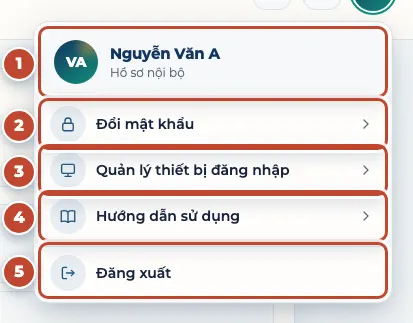
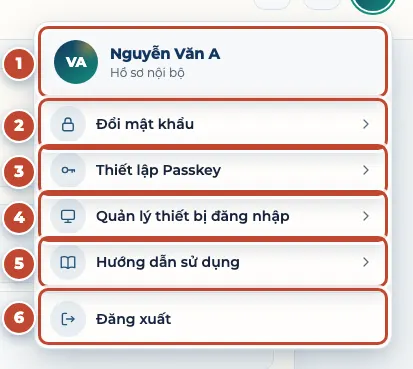
feat(account): Thiết lập Passkey under Đổi mật khẩu in the account menu
In the Android/iOS app it opens the native passkey / vân tay / Face ID
sheet (bridge message quick-sign-in, already handled by the WebView apps).
In a browser, where passkeys cannot be created for this account, it opens
Thiết bị đăng nhập, which now explains where to set one up.
Guide: rewrote Đăng nhập nhanh for the WebView apps, renumbered the account
menu screenshot. Promoted from sandbox 3d2caef.

diff --git a/public/huong-dan-su-dung.html b/public/huong-dan-su-dung.html
@@ -671,7 +671,7 @@ mark { background: #fff3c8; color: inherit; border-radius: 3px; padding: 0 1px; 
     <details class="toc" open>
       <summary>Mục lục</summary>
       <ol class="toc-list">
-<li class="toc-part" data-part="bat-dau-nhanh"><a href="#bat-dau-nhanh"><span class="toc-num">1</span>Bắt đầu nhanh</a><ol><li data-topic="dang-nhap"><a href="#dang-nhap">Đăng nhập lần đầu</a></li><li data-topic="video-huong-dan"><a href="#video-huong-dan">Video hướng dẫn từng bước</a></li><li data-topic="quen-mat-khau"><a href="#quen-mat-khau">Quên mật khẩu</a></li><li data-topic="dang-nhap-nhanh-app"><a href="#dang-nhap-nhanh-app">Đăng nhập nhanh trên app bằng vân tay, Face ID hoặc passkey</a></li><li data-topic="doi-mat-khau-lan-dau"><a href="#doi-mat-khau-lan-dau">Đổi mật khẩu ở lần đăng nhập đầu tiên</a></li><li data-topic="giao-dien-chung"><a href="#giao-dien-chung">Làm quen với màn hình chính</a></li><li data-topic="vai-tro-va-quyen"><a href="#vai-tro-va-quyen">Vai trò, chức vụ và nhóm quyền</a></li><li data-topic="tb-thong-bao"><a href="#tb-thong-bao">Chuông thông báo và trang Thông báo</a></li><li data-topic="tai-khoan-ca-nhan"><a href="#tai-khoan-ca-nhan">Menu tài khoản và hồ sơ cá nhân</a></li><li data-topic="doi-mat-khau"><a href="#doi-mat-khau">Đổi mật khẩu</a></li><li data-topic="thiet-bi-dang-nhap"><a href="#thiet-bi-dang-nhap">Thiết bị đã đăng nhập</a></li></ol></li>
+<li class="toc-part" data-part="bat-dau-nhanh"><a href="#bat-dau-nhanh"><span class="toc-num">1</span>Bắt đầu nhanh</a><ol><li data-topic="dang-nhap"><a href="#dang-nhap">Đăng nhập lần đầu</a></li><li data-topic="video-huong-dan"><a href="#video-huong-dan">Video hướng dẫn từng bước</a></li><li data-topic="quen-mat-khau"><a href="#quen-mat-khau">Quên mật khẩu</a></li><li data-topic="dang-nhap-nhanh-app"><a href="#dang-nhap-nhanh-app">Đăng nhập nhanh bằng passkey, vân tay, Face ID</a></li><li data-topic="doi-mat-khau-lan-dau"><a href="#doi-mat-khau-lan-dau">Đổi mật khẩu ở lần đăng nhập đầu tiên</a></li><li data-topic="giao-dien-chung"><a href="#giao-dien-chung">Làm quen với màn hình chính</a></li><li data-topic="vai-tro-va-quyen"><a href="#vai-tro-va-quyen">Vai trò, chức vụ và nhóm quyền</a></li><li data-topic="tb-thong-bao"><a href="#tb-thong-bao">Chuông thông báo và trang Thông báo</a></li><li data-topic="tai-khoan-ca-nhan"><a href="#tai-khoan-ca-nhan">Menu tài khoản và hồ sơ cá nhân</a></li><li data-topic="doi-mat-khau"><a href="#doi-mat-khau">Đổi mật khẩu</a></li><li data-topic="thiet-bi-dang-nhap"><a href="#thiet-bi-dang-nhap">Thiết bị đã đăng nhập</a></li></ol></li>
 <li class="toc-part" data-part="giao-vien"><a href="#giao-vien"><span class="toc-num">2</span>Tôi là giáo viên</a><ol><li data-topic="ct-xem-lich-ca-nhan"><a href="#ct-xem-lich-ca-nhan">Xem lịch công tác của tôi</a></li><li data-topic="ct-xac-nhan-tham-gia"><a href="#ct-xac-nhan-tham-gia">Xác nhận đã tham gia công tác</a></li><li data-topic="ct-lich-chung-pdf"><a href="#ct-lich-chung-pdf">Xem Lịch công tác chung và tải PDF</a></li><li data-topic="cv-viec-duoc-giao"><a href="#cv-viec-duoc-giao">Xem công việc được giao và nộp bằng chứng hoàn thành</a></li><li data-topic="cv-bi-tra-ve"><a href="#cv-bi-tra-ve">Khi bài nộp bị trả về</a></li><li data-topic="cv-viec-cua-toi"><a href="#cv-viec-cua-toi">Việc của tôi — ghi việc riêng, đặt hạn và nhắc nhở</a></li><li data-topic="td-trao-doi"><a href="#td-trao-doi">Trao đổi — nhắn tin theo công việc, công tác và nhóm</a></li><li data-topic="td-nhom"><a href="#td-nhom">Tạo và quản lý nhóm trao đổi</a></li><li data-topic="dg-ho-so-cua-toi"><a href="#dg-ho-so-cua-toi">Xem hồ sơ đánh giá của tôi và nộp tự đánh giá</a></li><li data-topic="ln-ghi-nhan-loi"><a href="#ln-ghi-nhan-loi">Ghi nhận lỗi</a></li><li data-topic="lh-tong-quan"><a href="#lh-tong-quan">Tổng quan Lớp học</a></li><li data-topic="lh-lop-giang-day"><a href="#lh-lop-giang-day">Ghi Sổ đầu bài (Lớp giảng dạy)</a></li><li data-topic="lh-lich-day"><a href="#lh-lich-day">Xem lịch dạy của tôi</a></li><li data-topic="lh-hoc-ba"><a href="#lh-hoc-ba">Nhập điểm và xem Học bạ</a></li></ol></li>
 <li class="toc-part" data-part="gvcn"><a href="#gvcn"><span class="toc-num">3</span>Tôi là giáo viên chủ nhiệm (GVCN)</a><ol><li data-topic="cn-tong-quan-lop"><a href="#cn-tong-quan-lop">Xem nhanh tình hình lớp chủ nhiệm</a></li><li data-topic="cn-diem-danh-lop"><a href="#cn-diem-danh-lop">Điểm danh của lớp trong ngày — đánh dấu vắng không phép</a></li><li data-topic="cn-so-dau-bai"><a href="#cn-so-dau-bai">Xem Sổ đầu bài của lớp chủ nhiệm</a></li><li data-topic="cn-danh-sach-hoc-sinh"><a href="#cn-danh-sach-hoc-sinh">Danh sách học sinh và hồ sơ từng em</a></li><li data-topic="cn-bao-cao-xuat-file"><a href="#cn-bao-cao-xuat-file">Báo cáo chuyên cần và xuất file Excel / PDF</a></li></ol></li>
 <li class="toc-part" data-part="giam-thi"><a href="#giam-thi"><span class="toc-num">4</span>Tôi là Giám thị</a><ol><li data-topic="dd-diem-danh-man-hinh"><a href="#dd-diem-danh-man-hinh">Điểm danh các lớp trên màn hình</a></li><li data-topic="dd-diem-danh-excel"><a href="#dd-diem-danh-excel">Nhập điểm danh bằng file Excel</a></li><li data-topic="dd-diem-danh-dien-thoai"><a href="#dd-diem-danh-dien-thoai">Điểm danh trên điện thoại</a></li></ol></li>
@@ -723,16 +723,20 @@ mark { background: #fff3c8; color: inherit; border-radius: 3px; padding: 0 1px; 
 <details class="faq"><summary>Mật khẩu cũ của tôi còn dùng được không?</summary><div class="faq-answer"><p>Khi thư đã gửi thành công, mật khẩu cũ không còn dùng được nữa. Hãy đăng nhập bằng mật khẩu tạm trong thư.</p></div></details>
 <details class="faq"><summary>Tôi không còn dùng email đó nữa thì sao?</summary><div class="faq-answer"><p>Liên hệ quản trị viên để kiểm tra tài khoản và đặt lại mật khẩu trực tiếp.</p></div></details>
 </article>
-<article class="topic" id="dang-nhap-nhanh-app" data-keywords="van tay, face id, touch id, passkey, sinh trac hoc, dang nhap nhanh, app">
-<header class="topic-head"><h3><a class="topic-anchor" href="#dang-nhap-nhanh-app">Đăng nhập nhanh trên app bằng vân tay, Face ID hoặc passkey</a></h3><div class="chips"><span class="chip chip-menu">App điện thoại → Cá nhân → Bảo mật</span><span class="chip">Mọi người</span></div></header>
-<p class="lead">Trên app iPhone (từ phiên bản 3.1.0) và Android (từ 2.1.0), thầy cô có thể đăng nhập không cần gõ mật khẩu.</p>
-<p><strong>Cách 1. Vân tay / Face ID (bật một lần trên từng điện thoại)</strong></p>
-<ol class="steps"><li>Đăng nhập app bằng mật khẩu như bình thường.</li><li>Bấm ảnh đại diện → <strong>Cá nhân</strong> → bật <strong>Đăng nhập bằng Face ID</strong> (iPhone) hoặc <strong>Đăng nhập bằng vân tay</strong> (Android), rồi xác nhận bằng khuôn mặt / vân tay.</li><li>Lần sau mở app, ở màn hình đăng nhập bấm nút <strong>Face ID / Touch ID / vân tay</strong> (có ghi email của thầy cô) và xác thực.</li></ol>
-<p><strong>Cách 2. Passkey (đồng bộ qua iCloud / Google)</strong></p>
-<ol class="steps"><li>Đang đăng nhập, vào <strong>Cá nhân</strong> → <strong>Tạo passkey</strong>, xác nhận bằng khuôn mặt / vân tay / mã máy.</li><li>Lần sau ở màn hình đăng nhập bấm <strong>Đăng nhập bằng passkey</strong> <span class="step-ref" aria-label="số 1">1</span>, chọn tài khoản rồi xác thực. Passkey dùng được trên điện thoại khác cùng tài khoản iCloud / Google.</li></ol>
+<article class="topic" id="dang-nhap-nhanh-app" data-keywords="passkey, thiet lap passkey, van tay, face id, touch id, sinh trac hoc, dang nhap nhanh, app, khong can mat khau">
+<header class="topic-head"><h3><a class="topic-anchor" href="#dang-nhap-nhanh-app">Đăng nhập nhanh bằng passkey, vân tay, Face ID</a></h3><div class="chips"><span class="chip chip-menu">App điện thoại → Ảnh đại diện → Thiết lập Passkey</span><span class="chip">Mọi người</span></div></header>
+<p class="lead">Trên app <strong>CRM Lê Văn Tám</strong> (Android 3.0.3, iPhone 4.0.3 trở lên), thầy cô bật một lần là các lần sau đăng nhập bằng khuôn mặt, vân tay hoặc mã mở khóa máy, không phải gõ mật khẩu.</p>
+<p><strong>Thiết lập (làm một lần trên mỗi điện thoại)</strong></p>
+<ol class="steps"><li>Mở app, đăng nhập bằng email và mật khẩu như bình thường.</li><li>Bấm <strong>ảnh đại diện</strong> góc trên bên phải → <strong>Thiết lập Passkey</strong> (ngay dưới <strong>Đổi mật khẩu</strong>).</li><li>Màn hình <strong>Đăng nhập nhanh</strong> hiện ra. Bấm <strong>Tạo passkey</strong> rồi xác nhận bằng khuôn mặt / vân tay / mã máy. Passkey được lưu trong iCloud (iPhone) hoặc Google (Android), nên dùng được cả trên điện thoại khác đăng nhập cùng tài khoản iCloud / Google.</li><li>Cũng trên màn hình này, có thể bật thêm <strong>Đăng nhập bằng Face ID</strong> (iPhone) hoặc <strong>Đăng nhập bằng vân tay</strong> (Android). Cách này chỉ có tác dụng trên đúng điện thoại đó.</li><li>Thấy thông báo <strong>Đã tạo passkey</strong> / <strong>Đã bật</strong> là xong. Bấm <strong>Đóng</strong>.</li></ol>
+<p><strong>Đăng nhập lần sau</strong></p>
+<p>Mở app, ở màn hình đăng nhập bấm <strong>Đăng nhập bằng passkey</strong> <span class="step-ref" aria-label="số 1">1</span> (hoặc nút <strong>Face ID / vân tay</strong> có ghi email của thầy cô), rồi xác thực bằng khuôn mặt / vân tay.</p>
 <figure class="figure" id="hinh-7"><button type="button" class="figure-zoom" aria-label="Phóng to hình 7"><img src="huong-dan/app-dang-nhap-ios.webp" width="603" height="900" alt="Hình 7. Màn hình đăng nhập trên iPhone: 1 Đăng nhập bằng passkey" loading="lazy" decoding="async"></button><figcaption><b>Hình 7.</b> Màn hình đăng nhập trên iPhone: 1 Đăng nhập bằng passkey</figcaption></figure>
-<aside class="callout callout-note"><p class="callout-title"><svg viewBox="0 0 24 24" width="18" height="18" fill="none" stroke="currentColor" stroke-width="2" stroke-linecap="round" stroke-linejoin="round" aria-hidden="true"><circle cx="12" cy="12" r="9"/><path d="M12 11v6M12 7.5h.01"/></svg><span>Ghi chú</span></p><p>Mật khẩu không được lưu trên điện thoại: máy chỉ giữ một khóa bảo mật mở bằng vân tay / khuôn mặt. Khi quản trị viên đặt lại mật khẩu, khi thầy cô dùng <strong>Quên mật khẩu</strong>, hoặc khi tài khoản bị khóa / ngừng hoạt động, mọi vân tay / Face ID và passkey của tài khoản bị gỡ: đăng nhập bằng mật khẩu rồi bật lại.</p></aside>
+<aside class="callout callout-note"><p class="callout-title"><svg viewBox="0 0 24 24" width="18" height="18" fill="none" stroke="currentColor" stroke-width="2" stroke-linecap="round" stroke-linejoin="round" aria-hidden="true"><circle cx="12" cy="12" r="9"/><path d="M12 11v6M12 7.5h.01"/></svg><span>Mở bằng trình duyệt web?</span></p><p>Passkey chỉ thiết lập được trong app điện thoại. Trên trình duyệt (máy tính hoặc điện thoại), bấm <strong>Thiết lập Passkey</strong> sẽ mở trang <strong>Quản lý thiết bị đăng nhập</strong>, nơi xem và gỡ các passkey, vân tay, Face ID đã bật. Đăng nhập web vẫn dùng email và mật khẩu.</p></aside>
+<aside class="callout callout-note"><p class="callout-title"><svg viewBox="0 0 24 24" width="18" height="18" fill="none" stroke="currentColor" stroke-width="2" stroke-linecap="round" stroke-linejoin="round" aria-hidden="true"><circle cx="12" cy="12" r="9"/><path d="M12 11v6M12 7.5h.01"/></svg><span>Ghi chú</span></p><p>Mật khẩu không được lưu trên điện thoại: máy chỉ giữ một khóa bảo mật mở bằng vân tay / khuôn mặt. Khi quản trị viên đặt lại mật khẩu, khi thầy cô dùng <strong>Quên mật khẩu</strong>, hoặc khi tài khoản bị khóa / ngừng hoạt động, mọi passkey, vân tay, Face ID của tài khoản bị gỡ: đăng nhập bằng mật khẩu rồi thiết lập lại.</p></aside>
 <aside class="callout callout-warn"><p class="callout-title"><svg viewBox="0 0 24 24" width="18" height="18" fill="none" stroke="currentColor" stroke-width="2" stroke-linecap="round" stroke-linejoin="round" aria-hidden="true"><path d="M12 3 2 20h20L12 3Z"/><path d="M12 10v4M12 17h.01"/></svg><span>Mất điện thoại?</span></p><p>Vào web → ảnh đại diện → <strong>Quản lý thiết bị đăng nhập</strong>, mục <strong>Vân tay, Face ID và passkey</strong>, bấm <strong>Gỡ</strong> ở máy đó, đồng thời <strong>Thu hồi</strong> phiên đăng nhập của máy.</p></aside>
+<h4>Câu hỏi thường gặp</h4>
+<details class="faq"><summary>Không thấy dòng Thiết lập Passkey trong menu?</summary><div class="faq-answer"><p>Thầy cô cập nhật app lên bản mới nhất trên Google Play / App Store, rồi mở lại app.</p></div></details>
+<details class="faq"><summary>Bấm Tạo passkey thì máy báo lỗi?</summary><div class="faq-answer"><p>Điện thoại cần đã đặt khóa màn hình (mã PIN, vân tay hoặc khuôn mặt). Với Android, máy cần đăng nhập tài khoản Google; với iPhone, cần bật <strong>Mật khẩu &amp; Chuỗi khóa iCloud</strong> trong Cài đặt.</p></div></details>
 </article>
 <article class="topic" id="doi-mat-khau-lan-dau" data-keywords="mat khau tam, doi mat khau, lan dau, bat buoc">
 <header class="topic-head"><h3><a class="topic-anchor" href="#doi-mat-khau-lan-dau">Đổi mật khẩu ở lần đăng nhập đầu tiên</a></h3><div class="chips"><span class="chip chip-menu">Màn hình đăng nhập</span><span class="chip">Mọi người</span></div></header>
@@ -790,9 +794,9 @@ mark { background: #fff3c8; color: inherit; border-radius: 3px; padding: 0 1px; 
 </article>
 <article class="topic" id="tai-khoan-ca-nhan" data-keywords="ho so, avatar, anh dai dien, dang xuat, huong dan">
 <header class="topic-head"><h3><a class="topic-anchor" href="#tai-khoan-ca-nhan">Menu tài khoản và hồ sơ cá nhân</a></h3><div class="chips"><span class="chip chip-menu">Ảnh đại diện (góc trên phải)</span><span class="chip">Mọi người</span></div></header>
-<p class="lead">Mở hồ sơ, đổi ảnh đại diện, đổi mật khẩu, xem thiết bị, mở hướng dẫn và đăng xuất.</p>
-<ol class="steps"><li>Bấm vào <strong>ảnh đại diện</strong> (hoặc chữ viết tắt tên) ở góc trên bên phải.</li><li>Chọn tên của mình <span class="step-ref" aria-label="số 1">1</span> để mở <strong>Hồ sơ nội bộ</strong>.</li><li><strong>Đổi mật khẩu</strong> <span class="step-ref" aria-label="số 2">2</span> — xem <a href="#doi-mat-khau">Đổi mật khẩu</a>.</li><li><strong>Quản lý thiết bị đăng nhập</strong> <span class="step-ref" aria-label="số 3">3</span> — xem <a href="#thiet-bi-dang-nhap">Thiết bị đã đăng nhập</a>.</li><li><strong>Hướng dẫn sử dụng</strong> <span class="step-ref" aria-label="số 4">4</span> mở cẩm nang này trong tab mới.</li><li><strong>Đăng xuất</strong> <span class="step-ref" aria-label="số 5">5</span> khi dùng xong, nhất là trên máy tính dùng chung.</li></ol>
-<figure class="figure" id="hinh-19"><button type="button" class="figure-zoom" aria-label="Phóng to hình 19"><img src="huong-dan/menu-tai-khoan.webp" width="413" height="323" alt="Hình 19. Menu tài khoản: 1 Hồ sơ, 2 Đổi mật khẩu, 3 Thiết bị đăng nhập, 4 Hướng dẫn sử dụng, 5 Đăng xuất" loading="lazy" decoding="async"></button><figcaption><b>Hình 19.</b> Menu tài khoản: 1 Hồ sơ, 2 Đổi mật khẩu, 3 Thiết bị đăng nhập, 4 Hướng dẫn sử dụng, 5 Đăng xuất</figcaption></figure>
+<p class="lead">Mở hồ sơ, đổi ảnh đại diện, đổi mật khẩu, thiết lập passkey, xem thiết bị, mở hướng dẫn và đăng xuất.</p>
+<ol class="steps"><li>Bấm vào <strong>ảnh đại diện</strong> (hoặc chữ viết tắt tên) ở góc trên bên phải.</li><li>Chọn tên của mình <span class="step-ref" aria-label="số 1">1</span> để mở <strong>Hồ sơ nội bộ</strong>.</li><li><strong>Đổi mật khẩu</strong> <span class="step-ref" aria-label="số 2">2</span> — xem <a href="#doi-mat-khau">Đổi mật khẩu</a>.</li><li><strong>Thiết lập Passkey</strong> <span class="step-ref" aria-label="số 3">3</span> — bật đăng nhập không cần mật khẩu trên app điện thoại, xem <a href="#dang-nhap-nhanh-app">Đăng nhập nhanh bằng passkey, vân tay, Face ID</a>.</li><li><strong>Quản lý thiết bị đăng nhập</strong> <span class="step-ref" aria-label="số 4">4</span> — xem <a href="#thiet-bi-dang-nhap">Thiết bị đã đăng nhập</a>.</li><li><strong>Hướng dẫn sử dụng</strong> <span class="step-ref" aria-label="số 5">5</span> mở cẩm nang này trong tab mới.</li><li><strong>Đăng xuất</strong> <span class="step-ref" aria-label="số 6">6</span> khi dùng xong, nhất là trên máy tính dùng chung.</li></ol>
+<figure class="figure" id="hinh-19"><button type="button" class="figure-zoom" aria-label="Phóng to hình 19"><img src="huong-dan/menu-tai-khoan.webp" width="413" height="369" alt="Hình 19. Menu tài khoản: 1 Hồ sơ, 2 Đổi mật khẩu, 3 Thiết lập Passkey, 4 Thiết bị đăng nhập, 5 Hướng dẫn sử dụng, 6 Đăng xuất" loading="lazy" decoding="async"></button><figcaption><b>Hình 19.</b> Menu tài khoản: 1 Hồ sơ, 2 Đổi mật khẩu, 3 Thiết lập Passkey, 4 Thiết bị đăng nhập, 5 Hướng dẫn sử dụng, 6 Đăng xuất</figcaption></figure>
 <h5>Đổi ảnh đại diện</h5>
 <p>Trong <strong>Hồ sơ nội bộ</strong>, bấm <strong>Đổi ảnh đại diện</strong> <span class="step-ref" aria-label="số 1">1</span>, chọn ảnh, kéo/phóng để căn khung rồi lưu. Hồ sơ còn cho biết email, vai trò, tổ chuyên môn, chức vụ và nhóm quyền của thầy cô.</p>
 <figure class="figure" id="hinh-20"><button type="button" class="figure-zoom" aria-label="Phóng to hình 20"><img src="huong-dan/ho-so.webp" width="792" height="767" alt="Hình 20. Hồ sơ nội bộ: 1 nút Đổi ảnh đại diện" loading="lazy" decoding="async"></button><figcaption><b>Hình 20.</b> Hồ sơ nội bộ: 1 nút Đổi ảnh đại diện</figcaption></figure>
@@ -803,7 +807,7 @@ mark { background: #fff3c8; color: inherit; border-radius: 3px; padding: 0 1px; 
 <header class="topic-head"><h3><a class="topic-anchor" href="#doi-mat-khau">Đổi mật khẩu</a></h3><div class="chips"><span class="chip chip-menu">Ảnh đại diện → Đổi mật khẩu</span><span class="chip">Mọi người</span></div></header>
 <p class="lead">Tự đổi mật khẩu khi đang đăng nhập.</p>
 <ol class="steps"><li>Bấm ảnh đại diện ở góc trên bên phải → <strong>Đổi mật khẩu</strong> (số 2 trong hình).</li></ol>
-<figure class="figure" id="hinh-21"><button type="button" class="figure-zoom" aria-label="Phóng to hình 21"><img src="huong-dan/menu-tai-khoan.webp" width="413" height="323" alt="Hình 21. Menu tài khoản: Đổi mật khẩu ở số 2" loading="lazy" decoding="async"></button><figcaption><b>Hình 21.</b> Menu tài khoản: Đổi mật khẩu ở số 2</figcaption></figure>
+<figure class="figure" id="hinh-21"><button type="button" class="figure-zoom" aria-label="Phóng to hình 21"><img src="huong-dan/menu-tai-khoan.webp" width="413" height="369" alt="Hình 21. Menu tài khoản: Đổi mật khẩu ở số 2" loading="lazy" decoding="async"></button><figcaption><b>Hình 21.</b> Menu tài khoản: Đổi mật khẩu ở số 2</figcaption></figure>
 <ol class="steps" start="2" style="counter-reset: step 1"><li>Nhập <strong>mật khẩu hiện tại</strong> <span class="step-ref" aria-label="số 1">1</span>.</li><li>Nhập <strong>mật khẩu mới</strong>, ít nhất 8 ký tự <span class="step-ref" aria-label="số 2">2</span>.</li><li>Nhập lại mật khẩu mới để xác nhận <span class="step-ref" aria-label="số 3">3</span>.</li><li>Bấm <strong>Đổi mật khẩu</strong> <span class="step-ref" aria-label="số 4">4</span>.</li></ol>
 <figure class="figure" id="hinh-22"><button type="button" class="figure-zoom" aria-label="Phóng to hình 22"><img src="huong-dan/doi-mat-khau.webp" width="528" height="519" alt="Hình 22. Trang Đổi mật khẩu: 1 mật khẩu hiện tại, 2 mật khẩu mới, 3 xác nhận, 4 nút Đổi mật khẩu" loading="lazy" decoding="async"></button><figcaption><b>Hình 22.</b> Trang Đổi mật khẩu: 1 mật khẩu hiện tại, 2 mật khẩu mới, 3 xác nhận, 4 nút Đổi mật khẩu</figcaption></figure>
 <aside class="callout callout-tip"><p class="callout-title"><svg viewBox="0 0 24 24" width="18" height="18" fill="none" stroke="currentColor" stroke-width="2" stroke-linecap="round" stroke-linejoin="round" aria-hidden="true"><path d="M9 18h6M10 21h4M12 3a6 6 0 0 0-3.5 10.9c.6.5 1 1.2 1 2V16h5v-.1c0-.8.4-1.5 1-2A6 6 0 0 0 12 3Z"/></svg><span>Mẹo</span></p><p>Quên mật khẩu hiện tại? Đăng xuất rồi dùng <a href="#quen-mat-khau">Quên mật khẩu</a> ở màn hình đăng nhập.</p></aside>
@@ -811,8 +815,8 @@ mark { background: #fff3c8; color: inherit; border-radius: 3px; padding: 0 1px; 
 <article class="topic" id="thiet-bi-dang-nhap" data-keywords="thiet bi, phien, dang xuat tu xa, mat dien thoai, thu hoi">
 <header class="topic-head"><h3><a class="topic-anchor" href="#thiet-bi-dang-nhap">Thiết bị đã đăng nhập</a></h3><div class="chips"><span class="chip chip-menu">Ảnh đại diện → Quản lý thiết bị đăng nhập</span><span class="chip">Mọi người</span></div></header>
 <p class="lead">Xem tài khoản đang đăng nhập ở những máy nào và đăng xuất từ xa máy không dùng nữa.</p>
-<ol class="steps"><li>Bấm ảnh đại diện → <strong>Quản lý thiết bị đăng nhập</strong> (số 3 trong hình).</li></ol>
-<figure class="figure" id="hinh-23"><button type="button" class="figure-zoom" aria-label="Phóng to hình 23"><img src="huong-dan/menu-tai-khoan.webp" width="413" height="323" alt="Hình 23. Menu tài khoản: Quản lý thiết bị đăng nhập ở số 3" loading="lazy" decoding="async"></button><figcaption><b>Hình 23.</b> Menu tài khoản: Quản lý thiết bị đăng nhập ở số 3</figcaption></figure>
+<ol class="steps"><li>Bấm ảnh đại diện → <strong>Quản lý thiết bị đăng nhập</strong> (số 4 trong hình).</li></ol>
+<figure class="figure" id="hinh-23"><button type="button" class="figure-zoom" aria-label="Phóng to hình 23"><img src="huong-dan/menu-tai-khoan.webp" width="413" height="369" alt="Hình 23. Menu tài khoản: Quản lý thiết bị đăng nhập ở số 4" loading="lazy" decoding="async"></button><figcaption><b>Hình 23.</b> Menu tài khoản: Quản lý thiết bị đăng nhập ở số 4</figcaption></figure>
 <ol class="steps" start="2" style="counter-reset: step 1"><li>Mục <strong>Thiết bị này</strong> <span class="step-ref" aria-label="số 1">1</span> là máy thầy cô đang dùng.</li><li>Bấm <strong>Đăng xuất tất cả phiên khác</strong> <span class="step-ref" aria-label="số 2">2</span> để thoát tài khoản trên mọi máy còn lại.</li><li>Hoặc bấm <strong>Thu hồi</strong> <span class="step-ref" aria-label="số 3">3</span> để chỉ đăng xuất một máy.</li><li>Mục <strong>Vân tay, Face ID và passkey</strong> liệt kê các điện thoại đã bật đăng nhập nhanh; bấm <strong>Gỡ</strong> để tắt ở máy không dùng nữa — xem <a href="#dang-nhap-nhanh-app">Đăng nhập nhanh trên app</a>.</li></ol>
 <figure class="figure" id="hinh-24"><button type="button" class="figure-zoom" aria-label="Phóng to hình 24"><img src="huong-dan/thiet-bi.webp" width="808" height="491" alt="Hình 24. Thiết bị đã đăng nhập: 1 thiết bị này, 2 Đăng xuất tất cả phiên khác, 3 Thu hồi một phiên" loading="lazy" decoding="async"></button><figcaption><b>Hình 24.</b> Thiết bị đã đăng nhập: 1 thiết bị này, 2 Đăng xuất tất cả phiên khác, 3 Thu hồi một phiên</figcaption></figure>
 <aside class="callout callout-warn"><p class="callout-title"><svg viewBox="0 0 24 24" width="18" height="18" fill="none" stroke="currentColor" stroke-width="2" stroke-linecap="round" stroke-linejoin="round" aria-hidden="true"><path d="M12 3 2 20h20L12 3Z"/><path d="M12 10v4M12 17h.01"/></svg><span>Lưu ý</span></p><p>Mất điện thoại hoặc lỡ đăng nhập trên máy tính dùng chung? Hãy vào đây <strong>Thu hồi</strong> ngay, sau đó <a href="#doi-mat-khau">đổi mật khẩu</a>. Máy bị thu hồi cũng ngừng nhận thông báo.</p></aside>
@@ -1534,7 +1538,7 @@ mark { background: #fff3c8; color: inherit; border-radius: 3px; padding: 0 1px; 
 <ol class="steps"><li>Tìm menu ở cột trái, hoặc biểu tượng ở góc trên bên phải (Trao đổi, chuông, ảnh đại diện).</li><li>Bấm liên kết trong bảng để đọc hướng dẫn.</li></ol>
 <figure class="figure" id="hinh-144"><button type="button" class="figure-zoom" aria-label="Phóng to hình 144"><img src="huong-dan/tb-chuong.webp" width="510" height="641" alt="Hình 144. Chuông thông báo ở góc trên bên phải" loading="lazy" decoding="async"></button><figcaption><b>Hình 144.</b> Chuông thông báo ở góc trên bên phải</figcaption></figure>
 <figure class="figure" id="hinh-145"><button type="button" class="figure-zoom" aria-label="Phóng to hình 145"><img src="huong-dan/td-trao-doi.webp" width="1028" height="800" alt="Hình 145. Trao đổi: nhắn tin theo công việc, công tác và nhóm" loading="lazy" decoding="async"></button><figcaption><b>Hình 145.</b> Trao đổi: nhắn tin theo công việc, công tác và nhóm</figcaption></figure>
-<figure class="figure" id="hinh-146"><button type="button" class="figure-zoom" aria-label="Phóng to hình 146"><img src="huong-dan/menu-tai-khoan.webp" width="413" height="323" alt="Hình 146. Bấm ảnh đại diện: hồ sơ, đổi mật khẩu, thiết bị, hướng dẫn, đăng xuất" loading="lazy" decoding="async"></button><figcaption><b>Hình 146.</b> Bấm ảnh đại diện: hồ sơ, đổi mật khẩu, thiết bị, hướng dẫn, đăng xuất</figcaption></figure>
+<figure class="figure" id="hinh-146"><button type="button" class="figure-zoom" aria-label="Phóng to hình 146"><img src="huong-dan/menu-tai-khoan.webp" width="413" height="369" alt="Hình 146. Bấm ảnh đại diện: hồ sơ, đổi mật khẩu, thiết bị, hướng dẫn, đăng xuất" loading="lazy" decoding="async"></button><figcaption><b>Hình 146.</b> Bấm ảnh đại diện: hồ sơ, đổi mật khẩu, thiết bị, hướng dẫn, đăng xuất</figcaption></figure>
 <div class="table-wrap"><table><thead><tr><th scope="col">Menu</th><th scope="col">Dùng để</th><th scope="col">Hướng dẫn</th></tr></thead><tbody><tr><td>Thông báo (chuông)</td><td>Lịch, việc sắp đến hạn, tin nhắn nhóm</td><td><a href="#tb-thong-bao">Thông báo</a></td></tr><tr><td>Trao đổi (tin nhắn)</td><td>Nhắn tin theo công việc, công tác, nhóm</td><td><a href="#td-trao-doi">Trao đổi</a>, <a href="#td-nhom">Nhóm</a></td></tr><tr><td>Báo cáo</td><td>Công việc, Bán trú</td><td><a href="#menu-bao-cao">Báo cáo</a></td></tr><tr><td>Bán trú</td><td>Kỳ bán trú, giáo viên tham gia</td><td><a href="#bt-ban-tru">Bán trú</a></td></tr><tr><td>Đánh giá nhân sự</td><td>Hồ sơ lỗi, công việc, kỳ đánh giá; BGH nhận xét</td><td><a href="#menu-danh-gia-nhan-su">Đánh giá nhân sự</a></td></tr><tr><td>Ghi nhận lỗi</td><td>Lỗi của tôi, lỗi do tôi ghi nhận</td><td><a href="#ln-ghi-nhan-loi">Ghi nhận lỗi</a></td></tr><tr><td>Ảnh đại diện</td><td>Hồ sơ, đổi mật khẩu, thiết bị, hướng dẫn, đăng xuất</td><td><a href="#tai-khoan-ca-nhan">Tài khoản</a></td></tr><tr><td>Thiết lập tối cao</td><td>Chỉ Administrator</td><td><a href="#menu-thiet-lap">Thiết lập tối cao</a></td></tr></tbody></table></div>
 <aside class="callout callout-tip"><p class="callout-title"><svg viewBox="0 0 24 24" width="18" height="18" fill="none" stroke="currentColor" stroke-width="2" stroke-linecap="round" stroke-linejoin="round" aria-hidden="true"><path d="M9 18h6M10 21h4M12 3a6 6 0 0 0-3.5 10.9c.6.5 1 1.2 1 2V16h5v-.1c0-.8.4-1.5 1-2A6 6 0 0 0 12 3Z"/></svg><span>Nút ? cạnh tên trang</span></p><p>Ở mọi trang, nút tròn <strong>?</strong> cạnh tên trang mở đúng phần hướng dẫn của menu đó ngay bên cạnh màn hình làm việc — xem <a href="#giao-dien-chung">Làm quen với màn hình chính</a>.</p></aside>
 </article>
@@ -1542,7 +1546,7 @@ mark { background: #fff3c8; color: inherit; border-radius: 3px; padding: 0 1px; 
 <header class="topic-head"><h3><a class="topic-anchor" href="#khi-khong-thay">Khi không thấy menu, nút hoặc dữ liệu</a></h3><div class="chips"><span class="chip chip-menu">Toàn bộ ứng dụng</span><span class="chip">Mọi người</span></div></header>
 <p class="lead">Các bước tự kiểm tra trước khi nhờ quản trị viên.</p>
 <ol class="steps"><li>Kiểm tra đang đăng nhập <strong>đúng tài khoản</strong> (bấm ảnh đại diện để xem tên).</li></ol>
-<figure class="figure" id="hinh-147"><button type="button" class="figure-zoom" aria-label="Phóng to hình 147"><img src="huong-dan/menu-tai-khoan.webp" width="413" height="323" alt="Hình 147. Bấm ảnh đại diện ở góc trên bên phải: tên tài khoản đang đăng nhập nằm trên cùng" loading="lazy" decoding="async"></button><figcaption><b>Hình 147.</b> Bấm ảnh đại diện ở góc trên bên phải: tên tài khoản đang đăng nhập nằm trên cùng</figcaption></figure>
+<figure class="figure" id="hinh-147"><button type="button" class="figure-zoom" aria-label="Phóng to hình 147"><img src="huong-dan/menu-tai-khoan.webp" width="413" height="369" alt="Hình 147. Bấm ảnh đại diện ở góc trên bên phải: tên tài khoản đang đăng nhập nằm trên cùng" loading="lazy" decoding="async"></button><figcaption><b>Hình 147.</b> Bấm ảnh đại diện ở góc trên bên phải: tên tài khoản đang đăng nhập nằm trên cùng</figcaption></figure>
 <ol class="steps" start="2" style="counter-reset: step 1"><li><strong>Tải lại trang</strong> (phím F5, hoặc kéo trang xuống trên điện thoại).</li><li>Kiểm tra đã chọn đúng <strong>kỳ, ngày, năm học</strong> hoặc đúng tab (ví dụ tab <strong>Quá hạn</strong> thay vì <strong>Việc cần làm</strong>).</li><li>Nhớ rằng nhiều nút chỉ hiện <strong>đúng lúc</strong> (xác nhận tham gia chỉ trong giờ công tác; việc Văn thư giao chỉ hiện sau khi Ban Giám hiệu duyệt), <strong>đúng người</strong> (người giao mới duyệt được) hoặc <strong>đúng chức vụ</strong> (giáo viên 1 sao không có <strong>+ Tạo công việc</strong>).</li><li>Vẫn không được: chụp màn hình, ghi rõ đang làm gì, gửi cho quản trị viên của trường.</li></ol>
 <aside class="callout callout-tip"><p class="callout-title"><svg viewBox="0 0 24 24" width="18" height="18" fill="none" stroke="currentColor" stroke-width="2" stroke-linecap="round" stroke-linejoin="round" aria-hidden="true"><path d="M9 18h6M10 21h4M12 3a6 6 0 0 0-3.5 10.9c.6.5 1 1.2 1 2V16h5v-.1c0-.8.4-1.5 1-2A6 6 0 0 0 12 3Z"/></svg><span>Mẹo</span></p><p>Xem <a href="#vai-tro-va-quyen">Vai trò, chức vụ và nhóm quyền</a> để hiểu vì sao mỗi người thấy menu khác nhau.</p></aside>
 <h4>Câu hỏi thường gặp</h4>

diff --git a/src/profile/AccountMenu.jsx b/src/profile/AccountMenu.jsx
@@ -1,5 +1,6 @@
 import React, { useEffect, useRef, useState } from 'react';
 import { useOwnAvatarContext } from './useOwnAvatar.jsx';
+import { postToApp } from '../lib/appBridge';
 import './accountMenu.css';
 
 function MenuGlyph({ children }) {
@@ -15,6 +16,17 @@ function PasswordIcon() {
     <MenuGlyph>
       <rect x="5" y="11" width="14" height="10" rx="2" />
       <path d="M8 11V8a4 4 0 0 1 8 0v3" />
+    </MenuGlyph>
+  );
+}
+
+function PasskeyIcon() {
+  return (
+    <MenuGlyph>
+      <circle cx="8" cy="12" r="3.5" />
+      <path d="M11.5 12h9" />
+      <path d="M17.5 12v3" />
+      <path d="M20.5 12v2" />
     </MenuGlyph>
   );
 }
@@ -123,6 +135,21 @@ export default function AccountMenu({ onChoose, onSignOut }) {
             <button type="button" className="account-menu-row" role="menuitem" onClick={() => go('change-password')}>
               <span className="account-menu-chip" aria-hidden="true"><PasswordIcon /></span>
               <span>Đổi mật khẩu</span>
+              <ChevronIcon />
+            </button>
+            {/* In the app: the native passkey / vân tay / Face ID sheet. In a browser passkeys cannot be
+                created (they belong to the phone app), so open Thiết bị đăng nhập, which explains where. */}
+            <button
+              type="button"
+              className="account-menu-row"
+              role="menuitem"
+              onClick={() => {
+                if (postToApp({ type: 'quick-sign-in' })) setOpen(false);
+                else go('devices');
+              }}
+            >
+              <span className="account-menu-chip" aria-hidden="true"><PasskeyIcon /></span>
+              <span>Thiết lập Passkey</span>
               <ChevronIcon />
             </button>
             <button type="button" className="account-menu-row" role="menuitem" onClick={() => go('devices')}>

diff --git a/src/profile/DevicesPanel.jsx b/src/profile/DevicesPanel.jsx
@@ -176,7 +176,12 @@ function SignInKeysSection({ now }) {
         <button type="button" className="primary-button devices-quick-sign-in" onClick={() => postToApp({ type: 'quick-sign-in' })}>
           Cài đặt đăng nhập nhanh trên điện thoại này
         </button>
-      ) : null}
+      ) : (
+        <p className="devices-hint">
+          Passkey, vân tay và Face ID được thiết lập trong app CRM Lê Văn Tám trên điện thoại: mở app, bấm ảnh đại diện
+          góc trên → <strong>Thiết lập Passkey</strong>. Trên trình duyệt web không tạo được passkey.
+        </p>
+      )}
       {feedback ? <p className="profile-feedback" role="status">{feedback}</p> : null}
       {keys.length === 0 ? (
         <p className="devices-empty">Chưa bật đăng nhập bằng vân tay, Face ID hay passkey trên app nào.</p>

diff --git a/src/profile/devices.css b/src/profile/devices.css
@@ -126,6 +126,13 @@
   white-space: nowrap;
 }
 
+.devices-hint {
+  margin: 0 0 10px;
+  color: var(--lvt-ink-soft);
+  font-size: 14px;
+  line-height: 1.5;
+}
+
 .devices-empty,
 .devices-loading {
   color: #64748b;

diff --git a/docs/guide/topics/start/dang-nhap-nhanh-app.md b/docs/guide/topics/start/dang-nhap-nhanh-app.md
@@ -1,29 +1,41 @@
 ---
 id: dang-nhap-nhanh-app
-title: Đăng nhập nhanh trên app bằng vân tay, Face ID hoặc passkey
-menu: App điện thoại → Cá nhân → Bảo mật
+title: Đăng nhập nhanh bằng passkey, vân tay, Face ID
+menu: App điện thoại → Ảnh đại diện → Thiết lập Passkey
 roles: Mọi người
-keywords: van tay, face id, touch id, passkey, sinh trac hoc, dang nhap nhanh, app
+keywords: passkey, thiet lap passkey, van tay, face id, touch id, sinh trac hoc, dang nhap nhanh, app, khong can mat khau
 ---
-Trên app iPhone (từ phiên bản 3.1.0) và Android (từ 2.1.0), thầy cô có thể đăng nhập không cần gõ mật khẩu.
+Trên app **CRM Lê Văn Tám** (Android 3.0.3, iPhone 4.0.3 trở lên), thầy cô bật một lần là các lần sau đăng nhập bằng khuôn mặt, vân tay hoặc mã mở khóa máy, không phải gõ mật khẩu.
 
-**Cách 1. Vân tay / Face ID (bật một lần trên từng điện thoại)**
+**Thiết lập (làm một lần trên mỗi điện thoại)**
 
-1. Đăng nhập app bằng mật khẩu như bình thường.
-2. Bấm ảnh đại diện → **Cá nhân** → bật **Đăng nhập bằng Face ID** (iPhone) hoặc **Đăng nhập bằng vân tay** (Android), rồi xác nhận bằng khuôn mặt / vân tay.
-3. Lần sau mở app, ở màn hình đăng nhập bấm nút **Face ID / Touch ID / vân tay** (có ghi email của thầy cô) và xác thực.
+1. Mở app, đăng nhập bằng email và mật khẩu như bình thường.
+2. Bấm **ảnh đại diện** góc trên bên phải → **Thiết lập Passkey** (ngay dưới **Đổi mật khẩu**).
+3. Màn hình **Đăng nhập nhanh** hiện ra. Bấm **Tạo passkey** rồi xác nhận bằng khuôn mặt / vân tay / mã máy. Passkey được lưu trong iCloud (iPhone) hoặc Google (Android), nên dùng được cả trên điện thoại khác đăng nhập cùng tài khoản iCloud / Google.
+4. Cũng trên màn hình này, có thể bật thêm **Đăng nhập bằng Face ID** (iPhone) hoặc **Đăng nhập bằng vân tay** (Android). Cách này chỉ có tác dụng trên đúng điện thoại đó.
+5. Thấy thông báo **Đã tạo passkey** / **Đã bật** là xong. Bấm **Đóng**.
 
-**Cách 2. Passkey (đồng bộ qua iCloud / Google)**
+**Đăng nhập lần sau**
 
-1. Đang đăng nhập, vào **Cá nhân** → **Tạo passkey**, xác nhận bằng khuôn mặt / vân tay / mã máy.
-2. Lần sau ở màn hình đăng nhập bấm **Đăng nhập bằng passkey** [[1]], chọn tài khoản rồi xác thực. Passkey dùng được trên điện thoại khác cùng tài khoản iCloud / Google.
+Mở app, ở màn hình đăng nhập bấm **Đăng nhập bằng passkey** [[1]] (hoặc nút **Face ID / vân tay** có ghi email của thầy cô), rồi xác thực bằng khuôn mặt / vân tay.
 
 ![Màn hình đăng nhập trên iPhone: 1 Đăng nhập bằng passkey](app-dang-nhap-ios)
 
+::: note Mở bằng trình duyệt web?
+Passkey chỉ thiết lập được trong app điện thoại. Trên trình duyệt (máy tính hoặc điện thoại), bấm **Thiết lập Passkey** sẽ mở trang **Quản lý thiết bị đăng nhập**, nơi xem và gỡ các passkey, vân tay, Face ID đã bật. Đăng nhập web vẫn dùng email và mật khẩu.
+:::
+
 ::: note
-Mật khẩu không được lưu trên điện thoại: máy chỉ giữ một khóa bảo mật mở bằng vân tay / khuôn mặt. Khi quản trị viên đặt lại mật khẩu, khi thầy cô dùng **Quên mật khẩu**, hoặc khi tài khoản bị khóa / ngừng hoạt động, mọi vân tay / Face ID và passkey của tài khoản bị gỡ: đăng nhập bằng mật khẩu rồi bật lại.
+Mật khẩu không được lưu trên điện thoại: máy chỉ giữ một khóa bảo mật mở bằng vân tay / khuôn mặt. Khi quản trị viên đặt lại mật khẩu, khi thầy cô dùng **Quên mật khẩu**, hoặc khi tài khoản bị khóa / ngừng hoạt động, mọi passkey, vân tay, Face ID của tài khoản bị gỡ: đăng nhập bằng mật khẩu rồi thiết lập lại.
 :::
 
 ::: warn Mất điện thoại?
 Vào web → ảnh đại diện → **Quản lý thiết bị đăng nhập**, mục **Vân tay, Face ID và passkey**, bấm **Gỡ** ở máy đó, đồng thời **Thu hồi** phiên đăng nhập của máy.
 :::
+
+### Câu hỏi thường gặp
+??? Không thấy dòng Thiết lập Passkey trong menu?
+Thầy cô cập nhật app lên bản mới nhất trên Google Play / App Store, rồi mở lại app.
+
+??? Bấm Tạo passkey thì máy báo lỗi?
+Điện thoại cần đã đặt khóa màn hình (mã PIN, vân tay hoặc khuôn mặt). Với Android, máy cần đăng nhập tài khoản Google; với iPhone, cần bật **Mật khẩu & Chuỗi khóa iCloud** trong Cài đặt.

diff --git a/docs/guide/topics/start/tai-khoan-ca-nhan.md b/docs/guide/topics/start/tai-khoan-ca-nhan.md
@@ -5,16 +5,17 @@ menu: Ảnh đại diện (góc trên phải)
 roles: Mọi người
 keywords: ho so, avatar, anh dai dien, dang xuat, huong dan
 ---
-Mở hồ sơ, đổi ảnh đại diện, đổi mật khẩu, xem thiết bị, mở hướng dẫn và đăng xuất.
+Mở hồ sơ, đổi ảnh đại diện, đổi mật khẩu, thiết lập passkey, xem thiết bị, mở hướng dẫn và đăng xuất.
 
 1. Bấm vào **ảnh đại diện** (hoặc chữ viết tắt tên) ở góc trên bên phải.
 2. Chọn tên của mình [[1]] để mở **Hồ sơ nội bộ**.
 3. **Đổi mật khẩu** [[2]] — xem [Đổi mật khẩu](#doi-mat-khau).
-4. **Quản lý thiết bị đăng nhập** [[3]] — xem [Thiết bị đã đăng nhập](#thiet-bi-dang-nhap).
-5. **Hướng dẫn sử dụng** [[4]] mở cẩm nang này trong tab mới.
-6. **Đăng xuất** [[5]] khi dùng xong, nhất là trên máy tính dùng chung.
+4. **Thiết lập Passkey** [[3]] — bật đăng nhập không cần mật khẩu trên app điện thoại, xem [Đăng nhập nhanh bằng passkey, vân tay, Face ID](#dang-nhap-nhanh-app).
+5. **Quản lý thiết bị đăng nhập** [[4]] — xem [Thiết bị đã đăng nhập](#thiet-bi-dang-nhap).
+6. **Hướng dẫn sử dụng** [[5]] mở cẩm nang này trong tab mới.
+7. **Đăng xuất** [[6]] khi dùng xong, nhất là trên máy tính dùng chung.
 
-![Menu tài khoản: 1 Hồ sơ, 2 Đổi mật khẩu, 3 Thiết bị đăng nhập, 4 Hướng dẫn sử dụng, 5 Đăng xuất](menu-tai-khoan)
+![Menu tài khoản: 1 Hồ sơ, 2 Đổi mật khẩu, 3 Thiết lập Passkey, 4 Thiết bị đăng nhập, 5 Hướng dẫn sử dụng, 6 Đăng xuất](menu-tai-khoan)
 
 #### Đổi ảnh đại diện
 Trong **Hồ sơ nội bộ**, bấm **Đổi ảnh đại diện** [[1]], chọn ảnh, kéo/phóng để căn khung rồi lưu. Hồ sơ còn cho biết email, vai trò, tổ chuyên môn, chức vụ và nhóm quyền của thầy cô.

diff --git a/docs/guide/topics/start/thiet-bi-dang-nhap.md b/docs/guide/topics/start/thiet-bi-dang-nhap.md
@@ -7,9 +7,9 @@ keywords: thiet bi, phien, dang xuat tu xa, mat dien thoai, thu hoi
 ---
 Xem tài khoản đang đăng nhập ở những máy nào và đăng xuất từ xa máy không dùng nữa.
 
-1. Bấm ảnh đại diện → **Quản lý thiết bị đăng nhập** (số 3 trong hình).
+1. Bấm ảnh đại diện → **Quản lý thiết bị đăng nhập** (số 4 trong hình).
 
-![Menu tài khoản: Quản lý thiết bị đăng nhập ở số 3](menu-tai-khoan)
+![Menu tài khoản: Quản lý thiết bị đăng nhập ở số 4](menu-tai-khoan)
 
 2. Mục **Thiết bị này** [[1]] là máy thầy cô đang dùng.
 3. Bấm **Đăng xuất tất cả phiên khác** [[2]] để thoát tài khoản trên mọi máy còn lại.
